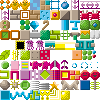
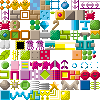
Added invisible tiles

Changed region(s): [[0.0, 0.09, 1.0, 0.51]]

diff --git a/src/level.js b/src/level.js
@@ -2,6 +2,7 @@ import { drawRotatedSprite, drawSprite } from "./assets.js";
 import { sound } from "./audio.js";
 import { ctx, cvs } from "./canvas.js";
 import { editorMode, editorCursor, renderEditor, showTileMenu, toggleTileMenu, setCurrentEditorTile } from "./editor.js";
+import { clearInvensibleTiles, isTileInvisible } from "./invisible.js";
 import { isKeyDown } from "./keyboard.js";
 import { levels } from "./levels.js";
 import { buttonsHeld } from "./mouse.js";
@@ -13,6 +14,7 @@ import { tileWidth } from "./tilewidth.js";
 
 export let level = null;
 export let entities = [];
+let portals = null;
 
 let lastDiamondCollectionTime = 0;
 let diamondsLeft = 0;
@@ -39,6 +41,8 @@ const starTimerLength = 150;
 const fullJumpVelocity = -5.7;
 const smallJumpVelocity = -1.9;
 const springVelocity = 8.2;
+
+const gunCooldown = 8;
 
 export function restartLevel() {
 	loadLevel(currentLevel);
@@ -69,6 +73,11 @@ export function loadLevel(levelId) {
 	entities = [];
 	diamondsLeft = 0;
 	score = 0;
+	portals = {
+		horizonal: {},
+		vertical: {},
+	};
+	clearInvensibleTiles();
 
 	for (let y = 0; y < testLevel.length; y++) {
 		for (let x = 0; x < testLevel[y].length; x++) {
@@ -78,6 +87,20 @@ export function loadLevel(levelId) {
 				case nameToId.diamond:
 					diamondsLeft++;
 					break;
+				case nameToId.portalhorizontal:
+					if (!portals.horizonal[y]) {
+						portals.horizonal[y] = [x];
+					} else {
+						portals.horizonal[y].push(x);
+					}
+					break;
+				case nameToId.portalvertical:
+					if (!portals.vertical[x]) {
+						portals.vertical[x] = [y];
+					} else {
+						portals.vertical[x].push(y);
+					}
+					break;
 				case nameToId.player:
 					entities.push({
 						type: spriteName,
@@ -85,6 +108,8 @@ export function loadLevel(levelId) {
 						y: y * tileWidth + tileWidth / 2,
 						xvel: 0,
 						yvel: 0,
+						portalFatigue: false,
+						gunCooldown: 0,
 					});
 					break;
 				case nameToId.horizontalmovingplatform1:
@@ -158,6 +183,7 @@ export function loadLevel(levelId) {
 						x: x * tileWidth + tileWidth / 2,
 						y: y * tileWidth + tileWidth / 2,
 						left: false,
+						portalFatigue: false,
 					});
 					break;
 				case nameToId.wasp:
@@ -216,7 +242,7 @@ export function renderLevel(context, thumbnail = false, levelRender = level) {
 
 		});
 	} else {
-		renderTiles(context, levelRender);
+		renderTiles(context, levelRender, thumbnail);
 	}
 
 	if (thumbnail) return;
@@ -233,7 +259,7 @@ export function renderLevel(context, thumbnail = false, levelRender = level) {
 	drawDigits(score, 2, cvs.height - 7, false, true);
 }
 
-function renderTile(tileId, x, y, context) {
+function renderTile(tileId, x, y, context, thumbnail) {
 	const spriteName = tileIds[tileId];
 	switch (tileId) {
 		case nameToId.goal:
@@ -255,16 +281,21 @@ function renderTile(tileId, x, y, context) {
 		case nameToId.player:
 			drawSprite('player', x * tileWidth + 3, y * tileWidth + 3, context);
 			break;
+		case nameToId.invisibleblock:
+			if (isTileInvisible(x, y) || thumbnail) {
+				drawSprite('invisibleblock', x * tileWidth, y * tileWidth, context);
+			}
+			break;
 		default:
 			drawSprite(spriteName, x * tileWidth, y * tileWidth, context);
 			break;
 	}
 }
 
-function renderTiles(context, level) {
+function renderTiles(context, level, thumbnail = false) {
 	for (let y = 0; y < level.length; y++) {
 		for (let x = 0; x < level[0].length; x++) {
-			renderTile(level[y][x], x, y, context)
+			renderTile(level[y][x], x, y, context, thumbnail)
 		}
 	}
 }
@@ -312,6 +343,9 @@ function renderEntities() {
 					entity.springTimer--;
 				}
 				drawSprite(`spring${entity.springTimer > 0 ? 2 : 1}`, entity.x - 5, entity.y - 5);
+				break;
+			case 'bullet':
+				drawSprite('bullet', entity.x - 2, entity.y - 3);
 				break;
 			default:
 				drawSprite(entity.type, entity.x - 5, entity.y - 5);
@@ -361,6 +395,9 @@ export function tickLevel() {
 				if (starTimer > 0) {
 					starTimer --;
 				}
+				if (entity.gunCooldown > 0) {
+					entity.gunCooldown --;
+				} 
 
 				// Edge of screen death
 				if (entity.x < 0 || entity.y < 0 || entity.x > cvs.width || entity.y > cvs.height) {
@@ -373,7 +410,7 @@ export function tickLevel() {
 					// Collision detection for floor while falling
 					const tileX = Math.floor(entity.x / tileWidth);
 					const tileY = Math.floor(entity.y / tileWidth);
-					if (isSolid(level[tileY][tileX], true, tileX, tileY)) {
+					if (isSolid(level[tileY][tileX], true, false, tileX, tileY)) {
 						entity.y = Math.floor((entity.y) / tileWidth) * tileWidth - 2;
 	
 						// Lower jump if holding space
@@ -383,7 +420,7 @@ export function tickLevel() {
 					// Collision detection for ceiling while jumping
 					const tileX = Math.floor(entity.x / tileWidth);
 					const tileY = Math.floor((entity.y - 4) / tileWidth);
-					if (isSolid(level[tileY][tileX], true, tileX, tileY)) {
+					if (isSolid(level[tileY][tileX], true, false, tileX, tileY)) {
 						entity.y = Math.ceil((entity.y - 4) / tileWidth) * tileWidth + 2;
 						entity.yvel = 0;
 					}
@@ -393,13 +430,13 @@ export function tickLevel() {
 				if (entity.xvel > 0) {
 					const tileX = Math.floor((entity.x + 2) / tileWidth);
 					const tileY = Math.floor(entity.y / tileWidth);
-					if (isSolid(level[tileY][tileX], true, tileX, tileY)) {
+					if (isSolid(level[tileY][tileX], true, false, tileX, tileY)) {
 						entity.xvel = 0;
 					}
 				} else {
 					const tileX = Math.floor((entity.x - 2) / tileWidth);
 					const tileY = Math.floor(entity.y / tileWidth);
-					if (isSolid(level[tileY][tileX], true, tileX, tileY)) {
+					if (isSolid(level[tileY][tileX], true, false, tileX, tileY)) {
 						entity.xvel = 0;
 					}
 				}
@@ -408,6 +445,9 @@ export function tickLevel() {
 				const playerTileX = Math.floor(entity.x / tileWidth);
 				const playerTileY = Math.floor(entity.y / tileWidth);
 				switch (level[playerTileY][playerTileX]) {
+					case nameToId.air:
+						entity.portalFatigue = false;
+						break;
 					case nameToId.diamond:
 						level[playerTileY][playerTileX] = 0;
 
@@ -477,6 +517,40 @@ export function tickLevel() {
 					case nameToId.boosterleft:
 						entity.xvel = -boosterHorizontalSpeed;
 						break;
+					case nameToId.portalhorizontal:
+						if (entity.portalFatigue) break;
+						const portalX = portals.horizonal[playerTileY].find(x => x !== playerTileX);
+						if (portalX) {
+							entity.x = portalX * tileWidth + tileWidth / 2;
+							entity.y = playerTileY * tileWidth + tileWidth / 2;
+							entity.portalFatigue = true;
+						}
+						break;
+					case nameToId.portalvertical:
+						if (entity.portalFatigue) break;
+						const portalY = portals.vertical[playerTileX].find(y => y !== playerTileY);
+						if (portalY) {
+							entity.x = playerTileX * tileWidth + tileWidth / 2;
+							entity.y = portalY * tileWidth + tileWidth / 2;
+							entity.portalFatigue = true;
+						}
+						break;
+					case nameToId.gun:
+						if (entity.gunCooldown > 0) break;
+						entities.push({
+							type: 'bullet',
+							x: playerTileX * tileWidth + tileWidth / 2,
+							y: playerTileY * tileWidth + tileWidth / 2,
+							xvel: -2,
+						});
+						entities.push({
+							type: 'bullet',
+							x: playerTileX * tileWidth + tileWidth / 2,
+							y: playerTileY * tileWidth + tileWidth / 2,
+							xvel: 2,
+						});
+						entity.gunCooldown = gunCooldown;
+						break;
 				}
 
 				// Collision with other entities
@@ -543,6 +617,32 @@ export function tickLevel() {
 						entity.left = !entity.left;
 					}
 				}
+				const ballTileX = Math.floor(entity.x / tileWidth);
+				const ballTileY = Math.floor(entity.y / tileWidth);
+				switch (level[ballTileY][ballTileX]) {
+					case nameToId.air:
+						entity.portalFatigue = false;
+						break;
+					case nameToId.portalhorizontal:
+						if (entity.portalFatigue) break;
+						const portalX = portals.horizonal[ballTileY].find(x => x !== ballTileX);
+						if (portalX) {
+							entity.x = portalX * tileWidth + tileWidth / 2;
+							entity.y = ballTileY * tileWidth + tileWidth / 2;
+							entity.portalFatigue = true;
+						}
+						break;
+					case nameToId.portalvertical:
+						if (entity.portalFatigue) break;
+						const portalY = portals.vertical[ballTileX].find(y => y !== ballTileY);
+						if (portalY) {
+							entity.x = ballTileX * tileWidth + tileWidth / 2;
+							entity.y = portalY * tileWidth + tileWidth / 2;
+							entity.portalFatigue = true;
+						}
+						break;
+				}
+					
 				break;
 			case 'elevator1':
 			case 'elevator2':
@@ -602,19 +702,23 @@ export function tickLevel() {
 				entity.x += entity.left ? -redMonsterSpeed : redMonsterSpeed;
 				entity.y += entity.down ? redMonsterSpeed : -redMonsterSpeed;
 				if (entity.down) {
+					// Floor collision
 					if (isSolid(level[Math.floor((entity.y + 5) / tileWidth)][Math.floor(entity.x / tileWidth)])) {
 						entity.down = false;
 					}
 				} else {
+					// Ceiling collision
 					if (isSolid(level[Math.floor((entity.y - 5) / tileWidth)][Math.floor(entity.x / tileWidth)])) {
 						entity.down = true;
 					}
 				}
 				if (entity.left) {
+					// Left wall collision
 					if (isSolid(level[Math.floor(entity.y / tileWidth)][Math.floor((entity.x - 5) / tileWidth)])) {
 						entity.left = false;
 					}
 				} else {
+					// Right wall collision
 					if (isSolid(level[Math.floor(entity.y / tileWidth)][Math.floor((entity.x + 5) / tileWidth)])) {
 						entity.left = true;
 					}
@@ -658,9 +762,7 @@ export function tickLevel() {
 				// Check if player is to the right of the laser
 				playerEntity = entities.find(e => e.type === 'player');
 
-				if (deathTimer > 0) {
-
-				} else {
+				if (deathTimer === 0) {
 					if (playerEntity.x > entity.x && playerEntity.y > entity.y - 5 && playerEntity.y < entity.y + 5) {
 						// Recursively check if laser can reach player (Check for any solid walls in the way)
 						const playerTileX = Math.floor(playerEntity.x / tileWidth);
@@ -697,6 +799,27 @@ export function tickLevel() {
 									y: y * tileWidth + tileWidth / 2,
 								});
 							})
+						}
+					}
+				}
+				break;
+			case 'bullet':
+				entity.x += entity.xvel;
+				const bulletTileX = Math.floor(entity.x / tileWidth);
+				const bulletTileY = Math.floor(entity.y / tileWidth);
+				// Kill bullet if collide with solid tile
+				if (isSolid(level[bulletTileY][bulletTileX], true, true, bulletTileX, bulletTileY)) {
+					entities.splice(entities.indexOf(entity), 1);
+				}
+				// Kill enemy if collide
+				for (const otherEntity of entities) {
+					if (isEntityEnemy(nameToId[otherEntity.type])) {
+						if (Math.abs(entity.x - otherEntity.x) < 5 && Math.abs(entity.y - otherEntity.y) < 5) {
+							sound.play('DIE');
+							entities.splice(entities.indexOf(otherEntity), 1);
+							entities.splice(entities.indexOf(entity), 1);
+							const explosionSprite = isEntityAnimated(nameToId[otherEntity.type]) ? `${otherEntity.type}1` : otherEntity.type;
+							createExplosionParticles(explosionSprite, otherEntity.x - 5, otherEntity.y - 5);
 						}
 					}
 				}

diff --git a/src/levels.js b/src/levels.js
@@ -9,4 +9,6 @@ export const levels = {
 	'test2': [[21,21,21,21,21,21,21,21,21,21,21,21,21,21,21,21],[21,0,0,0,0,21,0,0,0,0,0,0,21,1,1,21],[21,0,0,0,0,0,0,0,21,21,21,0,21,1,1,21],[21,0,2,0,0,21,77,0,0,1,21,0,0,0,0,21],[21,21,21,21,21,21,21,21,0,21,21,0,0,0,0,21],[21,0,0,0,0,0,0,21,0,0,0,0,0,21,21,21],[21,0,0,0,0,0,0,0,0,0,0,0,21,21,82,21],[21,0,0,0,0,21,0,0,0,21,0,0,0,1,1,21],[21,0,0,21,21,21,21,21,21,21,21,21,21,21,21,21],[21,0,0,0,0,0,0,0,0,0,0,0,0,0,0,21],[21,0,0,0,0,0,0,0,0,0,0,0,21,64,0,21],[21,21,21,0,0,21,21,21,21,0,69,0,21,0,0,21],[21,1,1,0,0,0,0,69,0,0,0,0,21,0,21,21],[21,1,1,0,0,0,0,0,0,0,0,0,21,0,1,21],[21,21,21,21,21,21,21,21,21,21,21,21,21,21,21,21],[0,0,0,0,0,0,0,0,0,0,0,0,0,0,0,0]],
 	'test3': [[21,21,21,21,21,21,21,21,21,21,21,21,21,21,21,21],[21,0,0,0,0,0,0,0,0,0,0,0,0,0,0,21],[21,0,0,0,0,0,0,0,0,0,0,0,0,0,0,21],[21,0,0,0,0,0,0,0,0,0,0,0,0,0,0,21],[21,0,0,0,0,0,0,0,0,0,0,0,0,0,0,21],[21,0,0,0,0,0,0,0,0,0,0,0,0,0,0,21],[21,0,0,0,0,0,0,0,0,0,0,0,0,0,0,21],[21,0,0,64,0,0,0,0,0,0,0,0,0,0,0,21],[21,0,0,21,0,0,0,0,0,0,0,0,0,0,0,21],[21,0,0,0,0,0,0,0,0,0,0,0,0,0,0,21],[21,0,0,81,0,0,0,0,21,0,0,0,0,0,0,21],[21,0,0,21,0,0,1,0,0,0,0,0,21,0,0,21],[21,21,0,21,0,0,21,21,21,21,0,0,21,0,0,21],[21,81,0,0,0,0,0,0,0,0,0,0,21,0,0,21],[21,21,21,21,21,21,21,21,21,21,21,21,21,21,21,21],[0,0,0,0,0,0,0,0,0,0,0,0,0,0,0,0]],
 	'test4': [[42,42,42,42,42,42,42,42,42,42,42,42,42,42,42,42],[42,0,0,0,0,0,0,0,0,0,0,0,0,0,0,42],[42,0,0,0,42,16,0,0,0,42,16,0,0,0,0,42],[42,0,0,0,0,0,0,0,0,42,42,42,42,42,42,42],[42,0,0,42,0,0,0,0,0,15,0,0,0,0,0,42],[42,0,0,42,0,0,0,0,0,42,0,0,0,0,0,42],[42,16,0,42,0,0,0,0,0,0,0,0,0,16,0,42],[42,42,42,42,0,0,0,0,0,0,0,0,42,42,42,42],[42,0,0,64,0,0,0,0,0,15,0,0,0,0,0,42],[42,0,0,0,0,0,15,0,0,42,42,42,42,0,0,42],[42,42,42,42,42,42,42,42,0,0,0,42,0,0,0,42],[42,0,0,0,0,0,0,42,0,0,0,42,0,0,42,42],[42,0,0,0,0,0,0,42,0,0,0,42,0,0,0,42],[42,16,0,0,0,0,15,42,0,0,0,42,16,0,0,42],[42,42,42,42,42,42,42,42,42,42,42,42,42,42,42,42],[0,0,0,0,0,0,0,0,0,0,0,0,0,0,0,0]],
+	'test5': [[42,42,42,42,42,42,42,42,42,42,42,42,42,42,42,42],[42,0,0,0,0,0,0,0,0,0,0,0,0,0,0,42],[42,0,0,0,0,0,0,0,0,0,0,0,0,0,0,42],[42,0,0,0,0,0,0,0,0,0,0,0,0,0,0,42],[42,0,0,0,0,0,0,0,0,0,0,0,0,0,0,42],[42,0,0,0,0,0,0,0,0,0,0,0,0,0,0,42],[42,0,0,0,0,0,0,0,0,0,0,0,0,0,0,42],[42,0,0,0,0,0,0,0,0,0,0,0,0,0,0,42],[42,0,0,64,0,0,0,0,0,0,0,0,0,0,0,42],[42,0,0,0,14,0,0,0,22,22,22,0,0,67,0,42],[42,0,0,37,37,37,0,0,0,0,0,0,0,0,0,42],[42,0,0,37,37,37,0,0,0,0,0,0,0,0,0,42],[42,0,0,37,37,37,0,0,0,0,0,0,0,0,0,42],[42,0,0,37,37,37,0,0,0,0,0,0,0,0,0,42],[42,42,42,42,42,42,42,42,42,42,42,42,42,42,42,42],[0,0,0,0,0,0,0,0,0,0,0,0,0,0,0,0]],
+	'test6': [[40,40,40,40,40,40,40,40,40,40,40,40,40,40,40,40],[40,0,0,0,0,0,0,0,0,0,0,0,0,0,0,40],[40,0,0,0,0,0,0,0,0,0,0,0,0,0,0,40],[40,0,0,0,0,0,0,0,0,0,0,0,0,0,0,40],[40,0,0,0,0,0,0,0,0,0,0,0,0,0,0,40],[40,0,0,0,0,0,0,0,0,0,0,0,0,0,25,40],[40,0,0,0,0,0,0,0,0,0,0,0,0,0,25,40],[40,0,0,0,0,0,0,0,0,0,0,0,25,0,25,40],[40,0,25,64,25,0,0,0,0,25,0,0,0,0,25,40],[40,0,25,25,25,0,25,0,0,0,0,0,0,25,25,40],[40,0,25,25,25,0,0,0,0,0,0,0,0,0,0,40],[40,0,25,25,25,0,0,0,0,0,0,25,25,0,0,40],[40,0,25,25,25,0,0,0,0,0,25,25,25,0,0,40],[40,0,25,25,25,25,25,25,25,25,25,25,25,0,0,40],[40,40,40,40,40,40,40,40,40,40,40,40,40,40,40,40],[0,0,0,0,0,0,0,0,0,0,0,0,0,0,0,0]],
 };

diff --git a/src/tiles.js b/src/tiles.js
@@ -1,4 +1,5 @@
 import { sound } from "./audio.js";
+import { addInvisibleTile } from "./invisible.js";
 import { level } from "./level.js";
 import { createExplosionParticles } from "./particle.js";
 import { tileWidth } from "./tilewidth.js";
@@ -90,11 +91,20 @@ export const nameToId = Object.entries(tileIds).reduce((acc, [id, name]) => {
 	return acc;
 }, {});
 
-export function isSolid(tileId, playerCaused = false, tileX = null, tileY = null) {
-	if (playerCaused && tileId === nameToId.breakableblock) {
+export function isSolid(tileId, playerCaused = false, bulletPower = false, tileX = null, tileY = null) {
+	if (playerCaused) {
+		if (tileId === nameToId.breakableblock) {
+			level[tileY][tileX] = nameToId.air;
+			createExplosionParticles('breakableblock', tileX * tileWidth, tileY * tileWidth);
+			sound.play('TI');
+		} else if (tileId === nameToId.invisibleblock) {
+			addInvisibleTile(tileX, tileY);
+		}
+	}
+	if (bulletPower && tileId === nameToId.explodableblock) {
 		level[tileY][tileX] = nameToId.air;
-		createExplosionParticles('breakableblock', tileX * tileWidth, tileY * tileWidth);
-		sound.play('TI');
+		createExplosionParticles('explodableblock', tileX * tileWidth, tileY * tileWidth);
+		sound.play('BRE');
 	}
 	return [
 		'grayblock',

diff --git a/src/invisible.js b/src/invisible.js
@@ -1,0 +1,13 @@
+export const invisibleTiles = new Set();
+
+export function clearInvensibleTiles() {
+	invisibleTiles.clear();
+}
+
+export function addInvisibleTile(x, y) {
+	invisibleTiles.add(y * 1000 + x);
+}
+
+export function isTileInvisible(x, y) {
+	return invisibleTiles.has(y * 1000 + x);
+}

diff --git a/src/index.js b/src/index.js
@@ -12,7 +12,7 @@ const ticksPerSecond = 30;
 
 loadAssets().then(() => {
 	initKeyboard();
-	loadLevel('test4');
+	loadLevel('level1');
 	loop();
 	setInterval(tickLevel, 1000 / ticksPerSecond);
 });
